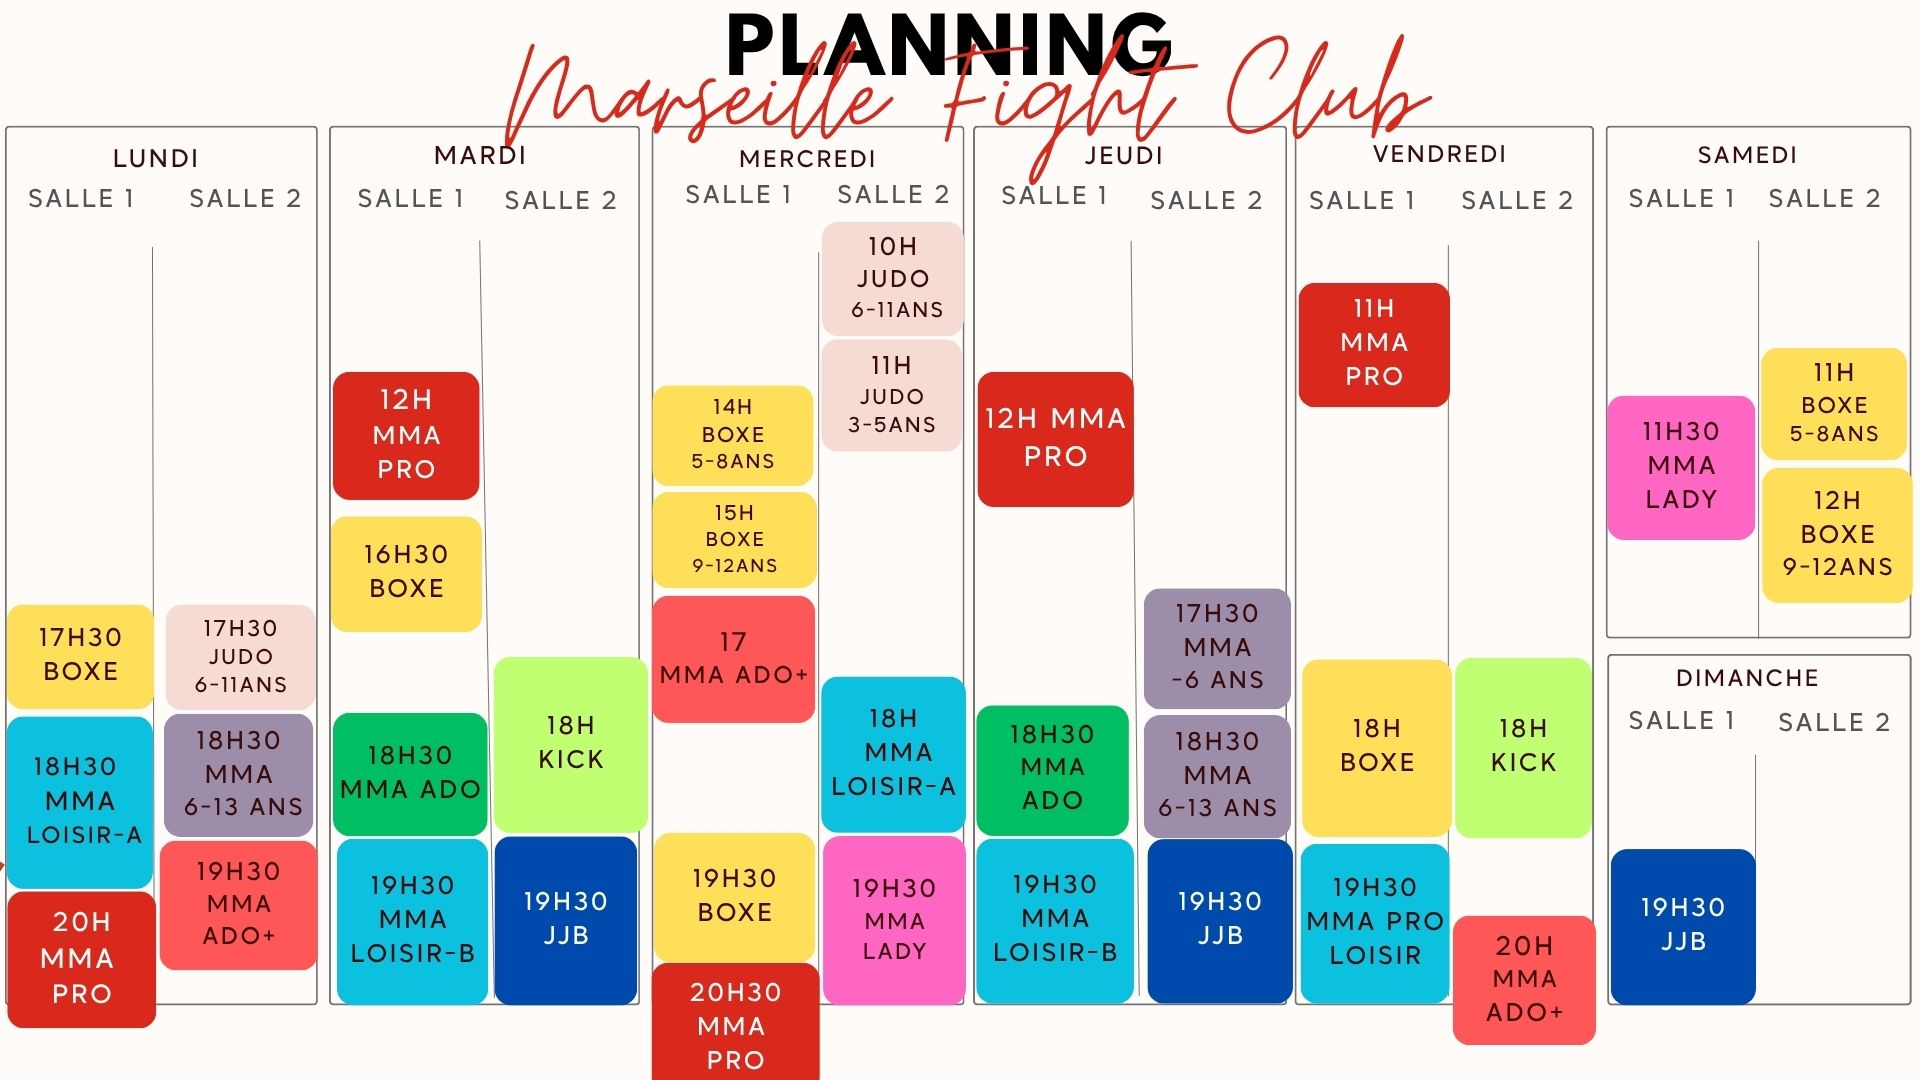
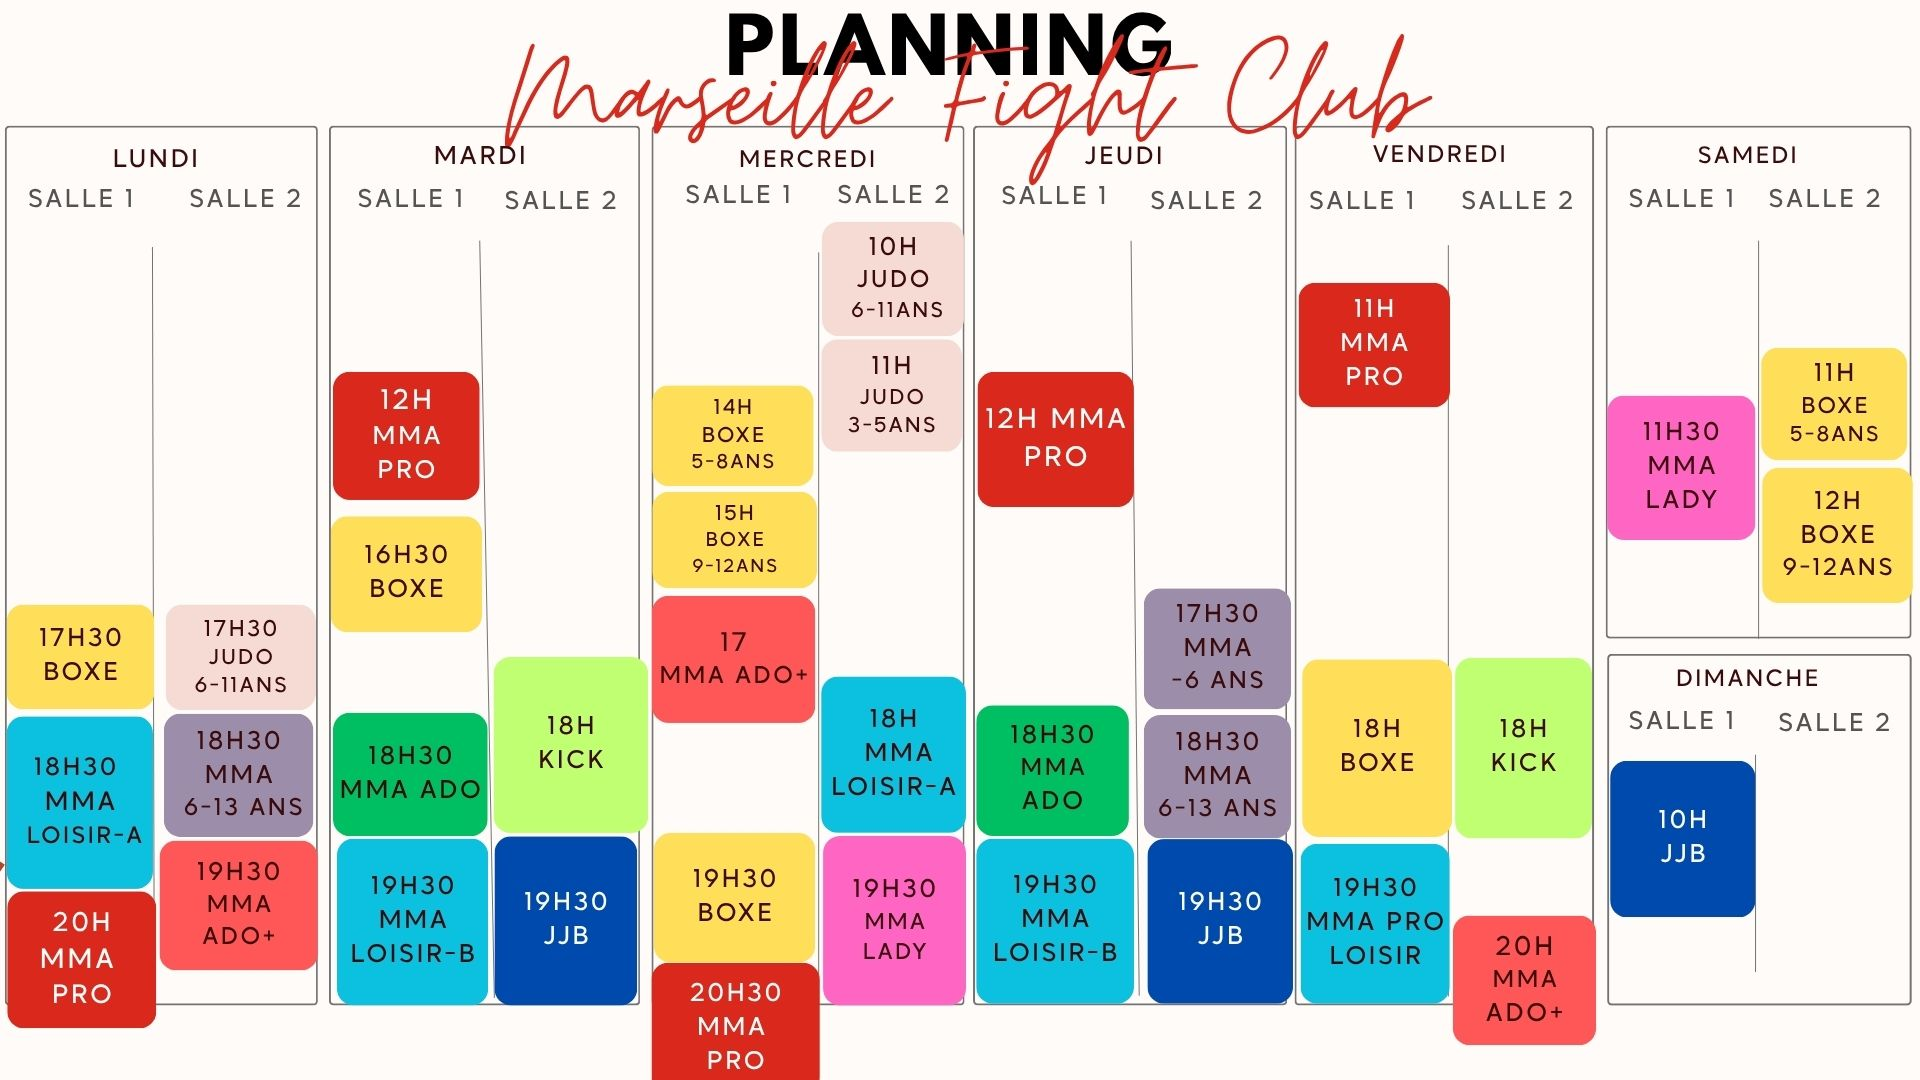
Update pricing component and planning image

Changed region(s): [[0.8125, 0.825, 0.9375, 0.9472], [0.8125, 0.7028, 0.9375, 0.7944]]

diff --git a/src/components/Pricing.tsx b/src/components/Pricing.tsx
@@ -78,7 +78,7 @@ const sections: Section[] = [
         schedule: [
           "Mardi : 19h30 – 21h00",
           "Jeudi : 19h30 – 21h00",
-          "Dimanche : 19h30 – 21h00"
+          "Dimanche : 10h – 11h30"
         ],
         tel: "06 61 67 91 09"
       },
